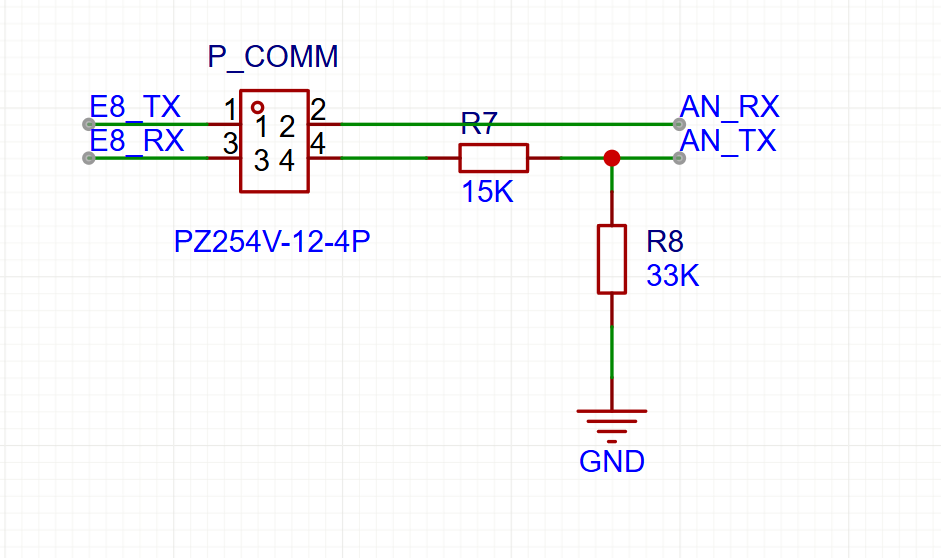
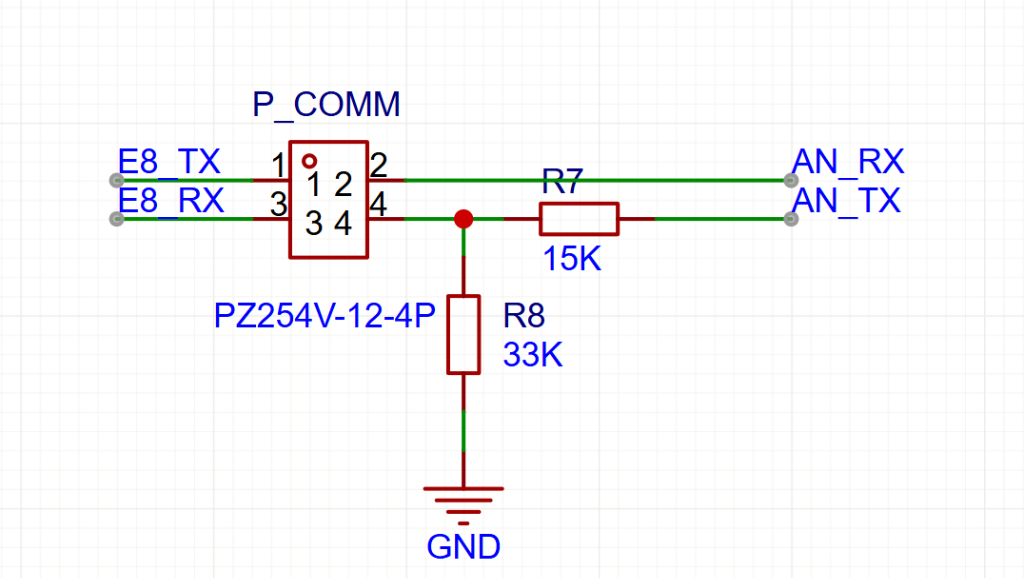
fix: correct UART circuit diagram and level-shift explanation

Changed region(s): [[0.0925, 0.1523, 0.8937, 0.9749], [0.2157, 0.0609, 0.3698, 0.1219]]

diff --git a/posts/light-integrated-control-board.md b/posts/light-integrated-control-board.md
@@ -69,9 +69,17 @@ ESP8266和Arduino Nano通过TX/RX串口通信。ESP8266是上层控制器，Nano
 
 ![双主控串口通信电路](../assets/light-integrated-control-board/dual-mcu-uart.png)
 
-图3：双主控串口通信电路。ESP8266侧信号命名为`E8_TX`和`E8_RX`，Nano侧命名为`AN_RX`和`AN_TX`，通过P_COMM接口连接。
+图3：双主控串口通信电路。ESP8266侧信号命名为`E8_TX`和`E8_RX`，Nano侧命名为`AN_RX`和`AN_TX`，通过P_COMM（PZ254V-12-4P 4针接插件）连接。
 
-图中R7为`15kΩ`、R8为`33kΩ`，组成电平处理网络。ESP8266是`3.3V`逻辑，Arduino Nano通常工作在`5V`逻辑，串口连接时不能只把TX和RX直接短接，需要确认电平兼容关系。发送方向采用电阻网络降低进入ESP8266端的电压风险，同时保留串口通信所需的高低电平识别。
+ESP8266是`3.3V`逻辑，Arduino Nano是`5V`逻辑，两者串口不能直接短接，需要处理电平兼容问题。电路用 R7（`15kΩ`）和 R8（`33kΩ`）解决这个问题，但两个方向的处理策略不同：
+
+- **AN_TX → E8_RX（Nano发、ESP8266收）**：Arduino Nano 的 TX 输出 5V 高电平，直接接入 ESP8266 的 RX 会超出其 3.3V 容限。R7 串联在这条线上，R8 从该节点接 GND，构成分压网络。高电平时 ESP8266 RX 端电压约为：
+
+  `5V × 33 / (15 + 33) ≈ 3.44V`
+
+  降至 3.3V 附近，保护 ESP8266 的 RX 引脚不被 5V 信号损坏。
+
+- **E8_TX → AN_RX（ESP8266发、Arduino收）**：ESP8266 的 TX 输出 3.3V 高电平。Arduino Nano 的 RX 引脚采用 5V 逻辑，但 3.3V 已超过 Arduino 判断高电平的阈值（通常约 `0.6 × VCC = 3V`），可以被正确识别，因此这一方向无需升压，直接连接即可。
 
 软件上可以把通信内容分成两类：
 
